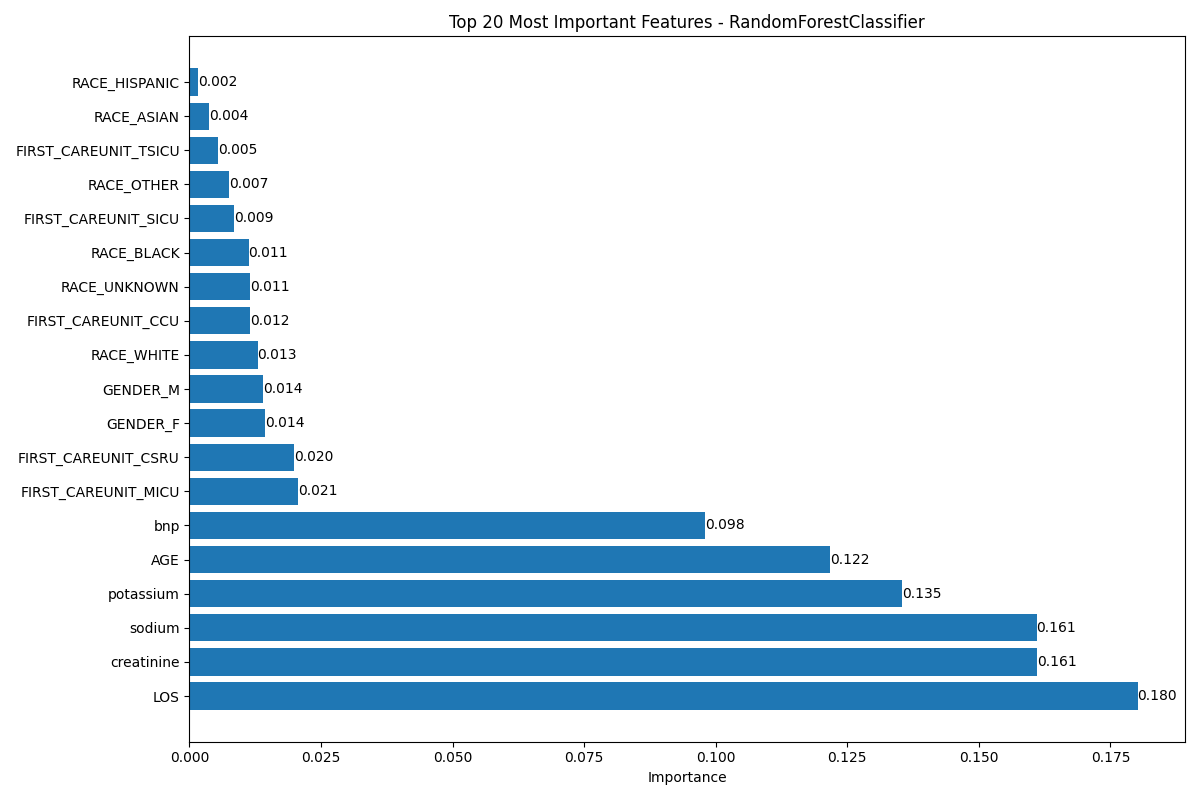
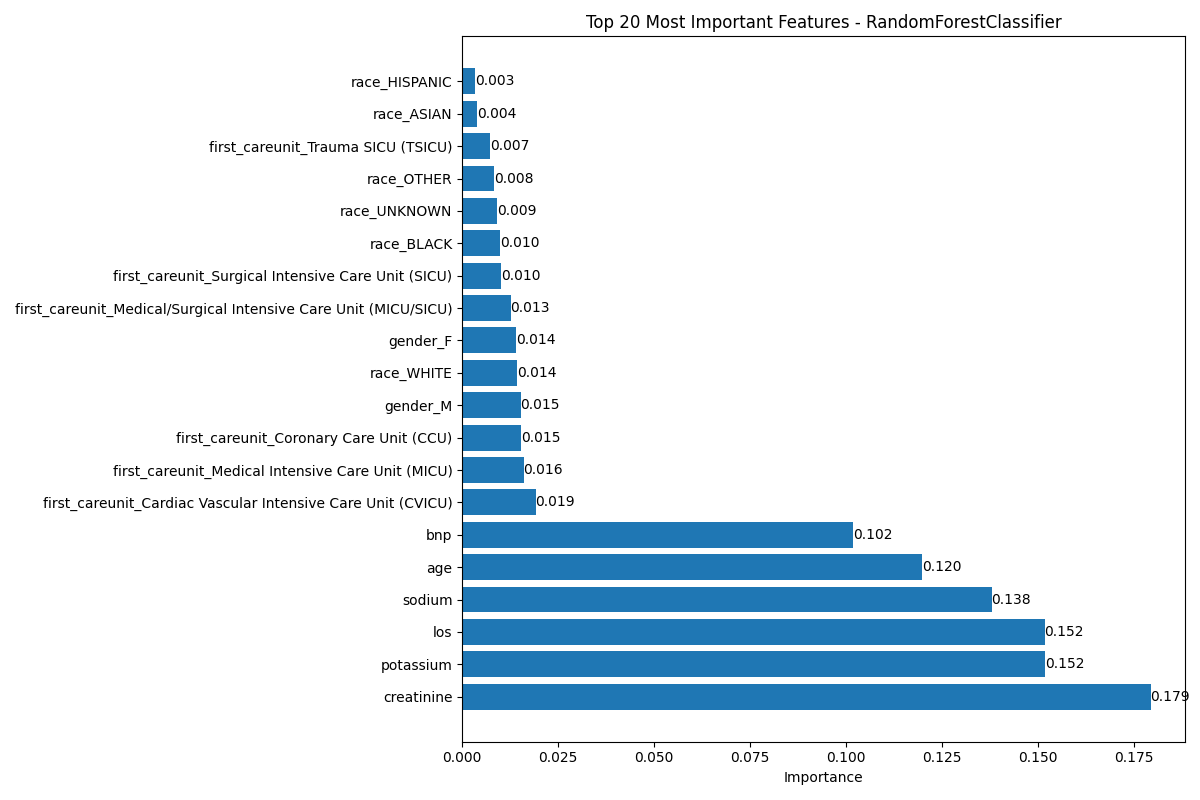
Baseline

diff --git a/MIMIC_ML_DL/data_preprocessing.py b/MIMIC_ML_DL/data_preprocessing.py
@@ -52,12 +52,12 @@ def get_chf_data(mimic_dir):
     diagnoses = read_mimic_csv(mimic_dir, 'diagnoses_icd.csv')
     logging.info("Diagnoses columns: %s", diagnoses.columns.tolist())
     
-    # Filter for CHF diagnoses (ICD-9: 4280)
-    chf_icd9 = d_icd[d_icd['ICD9_CODE'] == '4280']
+    # Filter for CHF diagnoses (ICD-10: 4280)
+    chf_icd9 = d_icd[d_icd['icd_code'] == '4280']
     logging.info(f"Found {len(chf_icd9)} CHF diagnosis codes")
     
     # Get all diagnoses with CHF
-    chf_diagnoses = diagnoses[diagnoses['ICD9_CODE'].isin(chf_icd9['ICD9_CODE'])]
+    chf_diagnoses = diagnoses[diagnoses['icd_code'].isin(chf_icd9['icd_code'])]
     logging.info(f"Found {len(chf_diagnoses)} CHF diagnoses")
     
     # Read admissions data
@@ -66,7 +66,7 @@ def get_chf_data(mimic_dir):
     logging.info(f"Read {len(admissions)} admission records")
     
     # Merge diagnoses with admissions
-    chf_admissions = pd.merge(chf_diagnoses, admissions, on=['HADM_ID', 'SUBJECT_ID'])
+    chf_admissions = pd.merge(chf_diagnoses, admissions, on=['hadm_id', 'subject_id'])
     
     # Clean up duplicate columns
     columns_to_drop = [col for col in chf_admissions.columns if '_x' in col or '_y' in col]
@@ -80,7 +80,7 @@ def get_chf_data(mimic_dir):
     logging.info("Patients columns: %s", patients.columns.tolist())
     
     # Merge with patients data
-    chf_patients = pd.merge(chf_admissions, patients, on='SUBJECT_ID')
+    chf_patients = pd.merge(chf_admissions, patients, on='subject_id')
     
     # Clean up duplicate columns again
     columns_to_drop = [col for col in chf_patients.columns if '_x' in col or '_y' in col]
@@ -90,7 +90,7 @@ def get_chf_data(mimic_dir):
     icustays = read_mimic_csv(mimic_dir, 'icustays.csv')
     
     # Merge with ICU stays
-    chf_icu = pd.merge(chf_patients, icustays, on=['SUBJECT_ID', 'HADM_ID'])
+    chf_icu = pd.merge(chf_patients, icustays, on=['subject_id', 'hadm_id'])
     
     # Clean up duplicate columns one more time
     columns_to_drop = [col for col in chf_icu.columns if '_x' in col or '_y' in col]
@@ -103,7 +103,7 @@ def get_chf_data(mimic_dir):
     lab_events_chunks = pd.read_csv(lab_events_path, 
                                   compression='gzip',
                                   chunksize=1000000)
-    
+
     # Filter for relevant lab tests for CHF
     bnp_itemid = 51003      # Brain Natriuretic Peptide (BNP)
     creatinine_itemid = 50912  # Creatinine
@@ -119,8 +119,8 @@ def get_chf_data(mimic_dir):
         
         # Filter for relevant lab tests and hadm_ids in chf_icu
         chunk_filtered = chunk[
-            (chunk['ITEMID'].isin([bnp_itemid, creatinine_itemid, sodium_itemid, potassium_itemid])) & 
-            (chunk['HADM_ID'].isin(chf_icu['HADM_ID']))
+            (chunk['itemid'].isin([bnp_itemid, creatinine_itemid, sodium_itemid, potassium_itemid])) & 
+            (chunk['hadm_id'].isin(chf_icu['hadm_id']))
         ]
         if not chunk_filtered.empty:
             lab_events_filtered.append(chunk_filtered)
@@ -130,12 +130,14 @@ def get_chf_data(mimic_dir):
     if lab_events_filtered:
         lab_events = pd.concat(lab_events_filtered)
         logging.info(f"Total lab events after filtering: {len(lab_events)}")
+        # Convert hadm_id to integer in lab_events
+        lab_events['hadm_id'] = lab_events['hadm_id'].astype('Int64')
         
         # Pivot lab events to get one row per admission with lab values as columns
         lab_pivot = lab_events.pivot_table(
-            index='HADM_ID', 
-            columns='ITEMID', 
-            values='VALUENUM', 
+            index='hadm_id', 
+            columns='itemid', 
+            values='valuenum', 
             aggfunc='mean'
         )
         
@@ -149,7 +151,7 @@ def get_chf_data(mimic_dir):
         ]
         
         # Merge lab values with CHF data
-        chf_data = pd.merge(chf_icu, lab_pivot, on='HADM_ID', how='left')
+        chf_data = pd.merge(chf_icu, lab_pivot, on='hadm_id', how='left')
         logging.info(f"Final dataset shape after merging lab values: {chf_data.shape}")
     else:
         chf_data = chf_icu
@@ -186,25 +188,20 @@ def process_chf_data(data):
     processed_data = data.copy()
     
     # Convert dates
-    processed_data['DOB'] = processed_data['DOB'].apply(convert_date_format)
-    processed_data['ADMITTIME'] = processed_data['ADMITTIME'].apply(convert_date_format)
-    processed_data['DISCHTIME'] = pd.to_datetime(processed_data['DISCHTIME'])
+    processed_data['admittime'] = processed_data['admittime'].apply(convert_date_format)
+    processed_data['dischtime'] = pd.to_datetime(processed_data['dischtime'])
     
-    # Calculate age at admission
-    processed_data['AGE'] = processed_data.apply(
-        lambda row: calculate_age(row['ADMITTIME'], row['DOB']), axis=1
-    )
-    
+    processed_data['age'] = processed_data['anchor_age']
     # Filter for valid ages between 1 and 120
     processed_data = processed_data[
-        (processed_data['AGE'] >= 1) & 
-        (processed_data['AGE'] <= 120)
+        (processed_data['age'] >= 1) & 
+        (processed_data['age'] <= 120)
     ].copy()
     
     # Calculate length of stay if not already present
-    if 'LOS' not in processed_data.columns:
-        processed_data['LOS'] = (
-            processed_data['DISCHTIME'] - processed_data['ADMITTIME']
+    if 'los' not in processed_data.columns:
+        processed_data['los'] = (
+            processed_data['dischtime'] - processed_data['admittime']
         ).dt.total_seconds() / (24 * 60 * 60)
     
     # Define race mapping
@@ -220,14 +217,14 @@ def process_chf_data(data):
     }
     
     # Map race categories
-    processed_data['RACE'] = processed_data['ETHNICITY'].apply(
+    processed_data['race'] = processed_data['race'].apply(
         lambda x: next((v for k, v in race_mapping.items() if k in str(x).upper()), 'OTHER')
     )
     
     # Select relevant features
     features = [
-        'SUBJECT_ID', 'HADM_ID', 'ICUSTAY_ID', 'GENDER', 'AGE', 'RACE',
-        'HOSPITAL_EXPIRE_FLAG', 'FIRST_CAREUNIT', 'LOS',
+        'subject_id', 'hadm_id', 'icustay_id', 'gender', 'age', 'race',
+        'hospital_expire_flag', 'first_careunit', 'los',
         'bnp', 'creatinine', 'sodium', 'potassium'
     ]
     
@@ -249,7 +246,7 @@ def process_chf_data(data):
     final_data = final_data.dropna(subset=['creatinine', 'sodium', 'potassium'])
     
     # One-hot encode categorical variables
-    categorical_cols = ['GENDER', 'RACE', 'FIRST_CAREUNIT']
+    categorical_cols = ['gender', 'race', 'first_careunit']
     categorical_cols = [col for col in categorical_cols if col in final_data.columns]
     
     final_data_encoded = pd.get_dummies(
@@ -275,7 +272,7 @@ def process_chf_data(data):
         logging.info(final_data[col].value_counts(normalize=True))
     
     logging.info("\nMortality rate:")
-    logging.info(f"{final_data_encoded['HOSPITAL_EXPIRE_FLAG'].mean():.2%}")
+    logging.info(f"{final_data_encoded['hospital_expire_flag'].mean():.2%}")
     
     # Additional feature statistics
     logging.info("\nFeature set information:")
@@ -315,8 +312,8 @@ if __name__ == "__main__":
         
         # Print final statistics
         logging.info("\nFinal dataset statistics:")
-        logging.info(f"Total patients: {processed_data['SUBJECT_ID'].nunique()}")
-        logging.info(f"Total admissions: {processed_data['HADM_ID'].nunique()}")
+        logging.info(f"Total patients: {processed_data['subject_id'].nunique()}")
+        logging.info(f"Total admissions: {processed_data['hadm_id'].nunique()}")
         logging.info(f"Total features: {len(processed_data.columns)}")
         
     except Exception as e:

diff --git a/MIMIC_ML_DL/train_models.py b/MIMIC_ML_DL/train_models.py
@@ -36,13 +36,13 @@ class RandomBinaryClassifier:
         probs[:, 1] = self.prob_positive
         return probs
 
-def prepare_data_splits(features, target_col='HOSPITAL_EXPIRE_FLAG', 
+def prepare_data_splits(features, target_col='hospital_expire_flag', 
                        test_size=0.15, val_size=0.15):
     """
     Rebalance and split data into train, validation, and test sets.
     """
     # Extract features and target
-    id_cols = [col for col in ['SUBJECT_ID', 'HADM_ID', 'ICUSTAY_ID'] 
+    id_cols = [col for col in ['subject_id', 'hadm_id', 'icustay_id'] 
               if col in features.columns]
     X = features.drop(columns=id_cols + [target_col])
     y = features[target_col]

diff --git a/MIMIC_ML_DL/README.md b/MIMIC_ML_DL/README.md
@@ -1,4 +1,4 @@
-# AI in Healthcare: MIMIC-III Data Analysis
+# AI in Healthcare: MIMIC-IV Data Analysis
 
 ## Project Overview
 
@@ -7,7 +7,7 @@ This project implements machine learning and deep learning models for analyzing 
 ## Data Preprocessing
 
 The `data_preprocessing.py` script handles the following tasks:
-- Reads and processes MIMIC-III CSV compressed files
+- Reads and processes MIMIC-IV CSV compressed files
 - Filters data for CHF patients using ICD-9 codes
 - Merges relevant tables (diagnoses, admissions, patients, ICU stays)
 - Processes lab events data for key indicators:
@@ -76,7 +76,7 @@ AI_in_HealthCare/
 ```
 
 ## Usage
-Ensure MIMIC-III data is in the correct directory structure
+Ensure MIMIC-IV data is in the correct directory structure
 
 ## Environment Setup
 
@@ -137,7 +137,7 @@ Accuracy
 
 ## Note
 
-Access to MIMIC-III data requires appropriate credentialing through PhysioNet.
+Access to MIMIC-IV data requires appropriate credentialing through PhysioNet.
 
 ## Contributing
 
@@ -149,5 +149,5 @@ This project is open-source and available under the MIT License.
 
 ## Acknowledgments
 
-MIMIC-III database
+MIMIC-IV database
 PhysioNet for providing access to healthcare data
